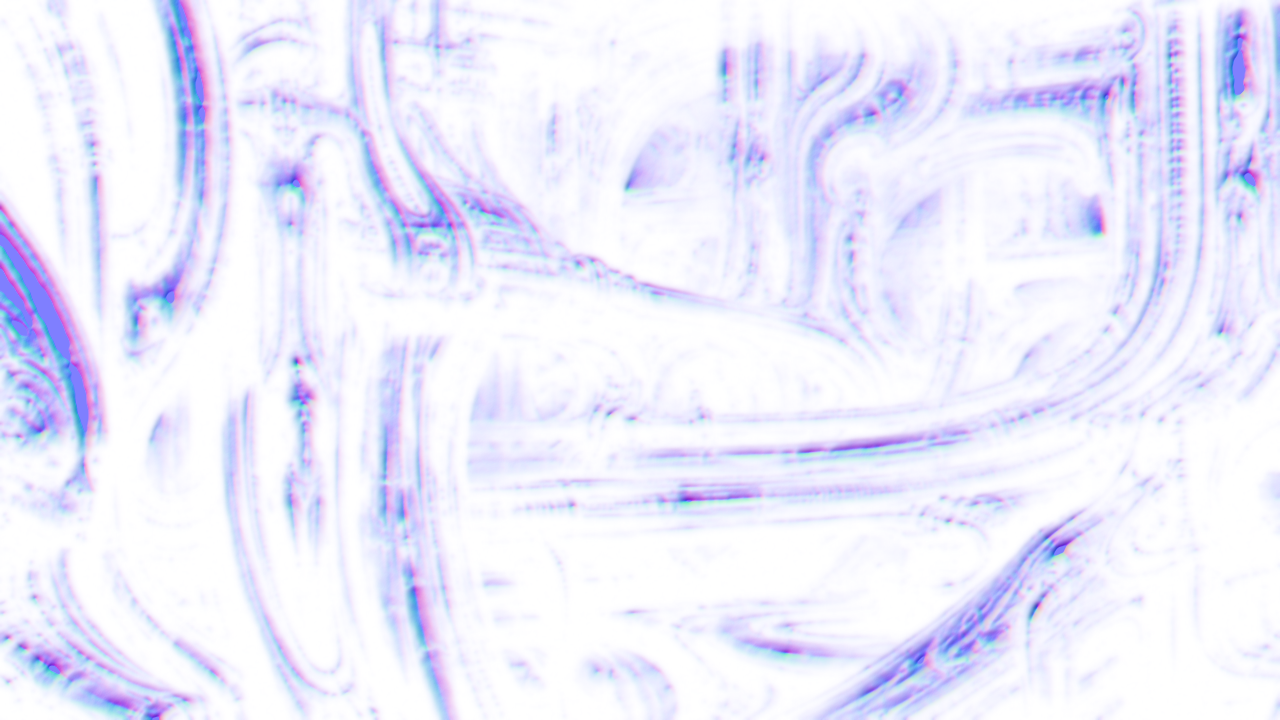
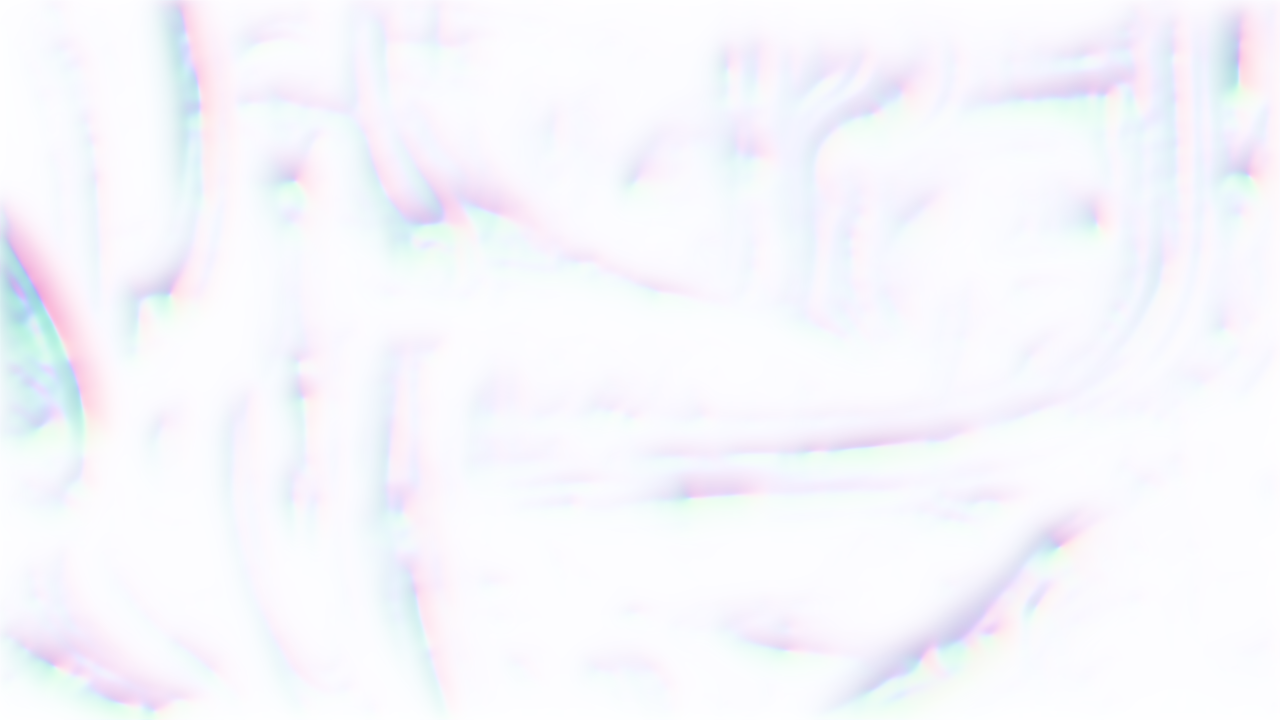
Make the moving background light visible

diff --git a/src/ui_board.c b/src/ui_board.c
@@ -107,7 +107,22 @@ void board_load_assets(BoardAssets *ba) {
         "assets/castle.jpg",  "assets/city.jpg", "assets/deus.png",
         "assets/face.jpg", "assets/realm.jpg"
     };
-    for (int i = 0; i < 8; i++) ba->bgs[i] = LoadTexture(get_path(bg_names[i]));
+    const char *normal_names[8] = {
+        "assets/harvest_normal.png", "assets/hole_normal.png", "assets/arctic_normal.png",
+        "assets/castle_normal.png", "assets/city_normal.png", "",
+        "assets/face_normal.png", "assets/realm_normal.png"
+    };
+    for (int i = 0; i < 8; i++) {
+        ba->bgs[i] = LoadTexture(get_path(bg_names[i]));
+        ba->bg_normals[i].id = 0;
+        if (normal_names[i][0] != '\0') {
+            ba->bg_normals[i] = LoadTexture(get_path(normal_names[i]));
+            if (ba->bg_normals[i].id > 0) {
+                SetTextureFilter(ba->bg_normals[i], TEXTURE_FILTER_BILINEAR);
+                SetTextureWrap(ba->bg_normals[i], TEXTURE_WRAP_CLAMP);
+            }
+        }
+    }
 
 #ifdef __EMSCRIPTEN__
     ba->fog_shader = LoadShader(0, get_path("assets/depth_fog_web.fs"));
@@ -115,7 +130,13 @@ void board_load_assets(BoardAssets *ba) {
     ba->fog_shader = LoadShader(0, get_path("assets/depth_fog.fs"));
 #endif
     ba->has_fog_shader = (ba->fog_shader.id > 0);
-    if (ba->has_fog_shader) ba->fog_time_loc = GetShaderLocation(ba->fog_shader, "time");
+    ba->fog_time_loc = ba->light_normal_loc = ba->light_enabled_loc = ba->light_height_range_loc = -1;
+    if (ba->has_fog_shader) {
+        ba->fog_time_loc = GetShaderLocation(ba->fog_shader, "time");
+        ba->light_normal_loc = GetShaderLocation(ba->fog_shader, "normalMap");
+        ba->light_enabled_loc = GetShaderLocation(ba->fog_shader, "lightEnabled");
+        ba->light_height_range_loc = GetShaderLocation(ba->fog_shader, "heightRange");
+    }
 
     ba->current_bg = 0; ba->assets_loaded = 1;
 }
@@ -127,7 +148,10 @@ void board_unload_assets(BoardAssets *ba) {
     if (ba->coin_gold.id > 0) UnloadTexture(ba->coin_gold);
     if (ba->coin_silver.id > 0) UnloadTexture(ba->coin_silver);
     if (ba->coin_bronze.id > 0) UnloadTexture(ba->coin_bronze);
-    for (int i = 0; i < 8; i++) UnloadTexture(ba->bgs[i]);
+    for (int i = 0; i < 8; i++) {
+        UnloadTexture(ba->bgs[i]);
+        if (ba->bg_normals[i].id > 0) UnloadTexture(ba->bg_normals[i]);
+    }
     if (ba->has_fog_shader) { UnloadShader(ba->fog_shader); ba->has_fog_shader = 0; }
     ba->assets_loaded = 0;
 }
@@ -243,10 +267,25 @@ void board_draw_table(const BoardAssets *ba, const GameState *g, const AnimState
     float cur_time = (float)GetTime();
     float frame_dt = GetFrameTime();
 
-    /* 1. Background with hybrid 3D depth-fog shader */
+    /* 1. Background with depth fog and a localized normal-map light */
     if (ba->has_fog_shader) {
+        static const float height_ranges[8][2] = {
+            { 0.078f, 0.165f }, { 0.133f, 0.231f }, { 0.086f, 0.161f },
+            { 0.149f, 0.353f }, { 0.063f, 0.122f }, { 0.0f, 1.0f },
+            { 0.078f, 0.157f }, { 0.067f, 0.122f }
+        };
+        int bg = ba->current_bg;
+        float light_enabled = (bg >= 0 && bg < 8 && ba->bg_normals[bg].id > 0 &&
+                               ba->light_normal_loc >= 0 && ba->light_enabled_loc >= 0 &&
+                               ba->light_height_range_loc >= 0) ? 1.0f : 0.0f;
         SetShaderValue(ba->fog_shader, ba->fog_time_loc, &cur_time, SHADER_UNIFORM_FLOAT);
+        SetShaderValue(ba->fog_shader, ba->light_enabled_loc, &light_enabled, SHADER_UNIFORM_FLOAT);
+        if (light_enabled > 0.5f)
+            SetShaderValue(ba->fog_shader, ba->light_height_range_loc,
+                           height_ranges[bg], SHADER_UNIFORM_VEC2);
         BeginShaderMode(ba->fog_shader);
+        if (light_enabled > 0.5f)
+            SetShaderValueTexture(ba->fog_shader, ba->light_normal_loc, ba->bg_normals[bg]);
     }
     if (ba->current_bg >= 0 && ba->current_bg < 8 && ba->bgs[ba->current_bg].id > 0) {
         DrawTexturePro(ba->bgs[ba->current_bg], (Rectangle){ 0, 0, 1280, 720 }, (Rectangle){ 0, 0, 1280, 720 }, (Vector2){ 0, 0 }, 0.0f, WHITE);

diff --git a/src/ui_board.h b/src/ui_board.h
@@ -14,10 +14,14 @@ typedef struct {
     Texture2D coin_silver;
     Texture2D coin_bronze;
     Texture2D bgs[8];
+    Texture2D bg_normals[8];
     int current_bg;
     int assets_loaded;
     Shader fog_shader;
     int fog_time_loc;
+    int light_normal_loc;
+    int light_enabled_loc;
+    int light_height_range_loc;
     int has_fog_shader;
 } BoardAssets;
 
